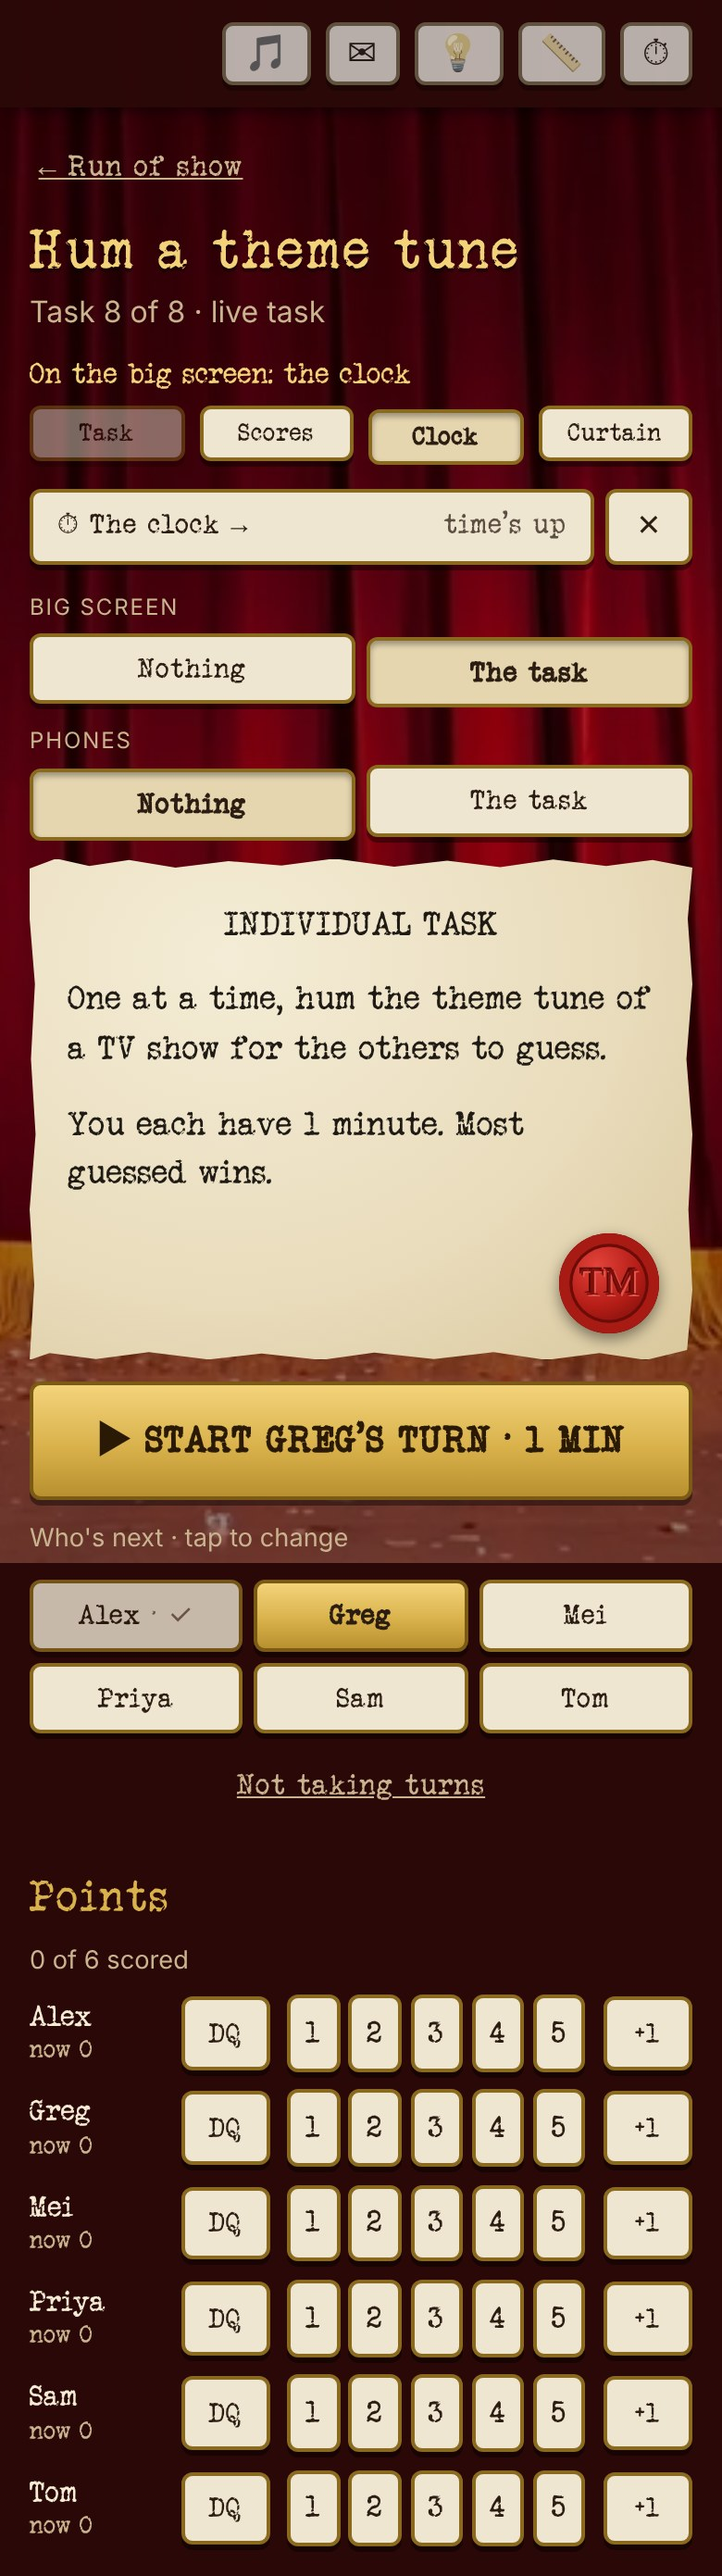
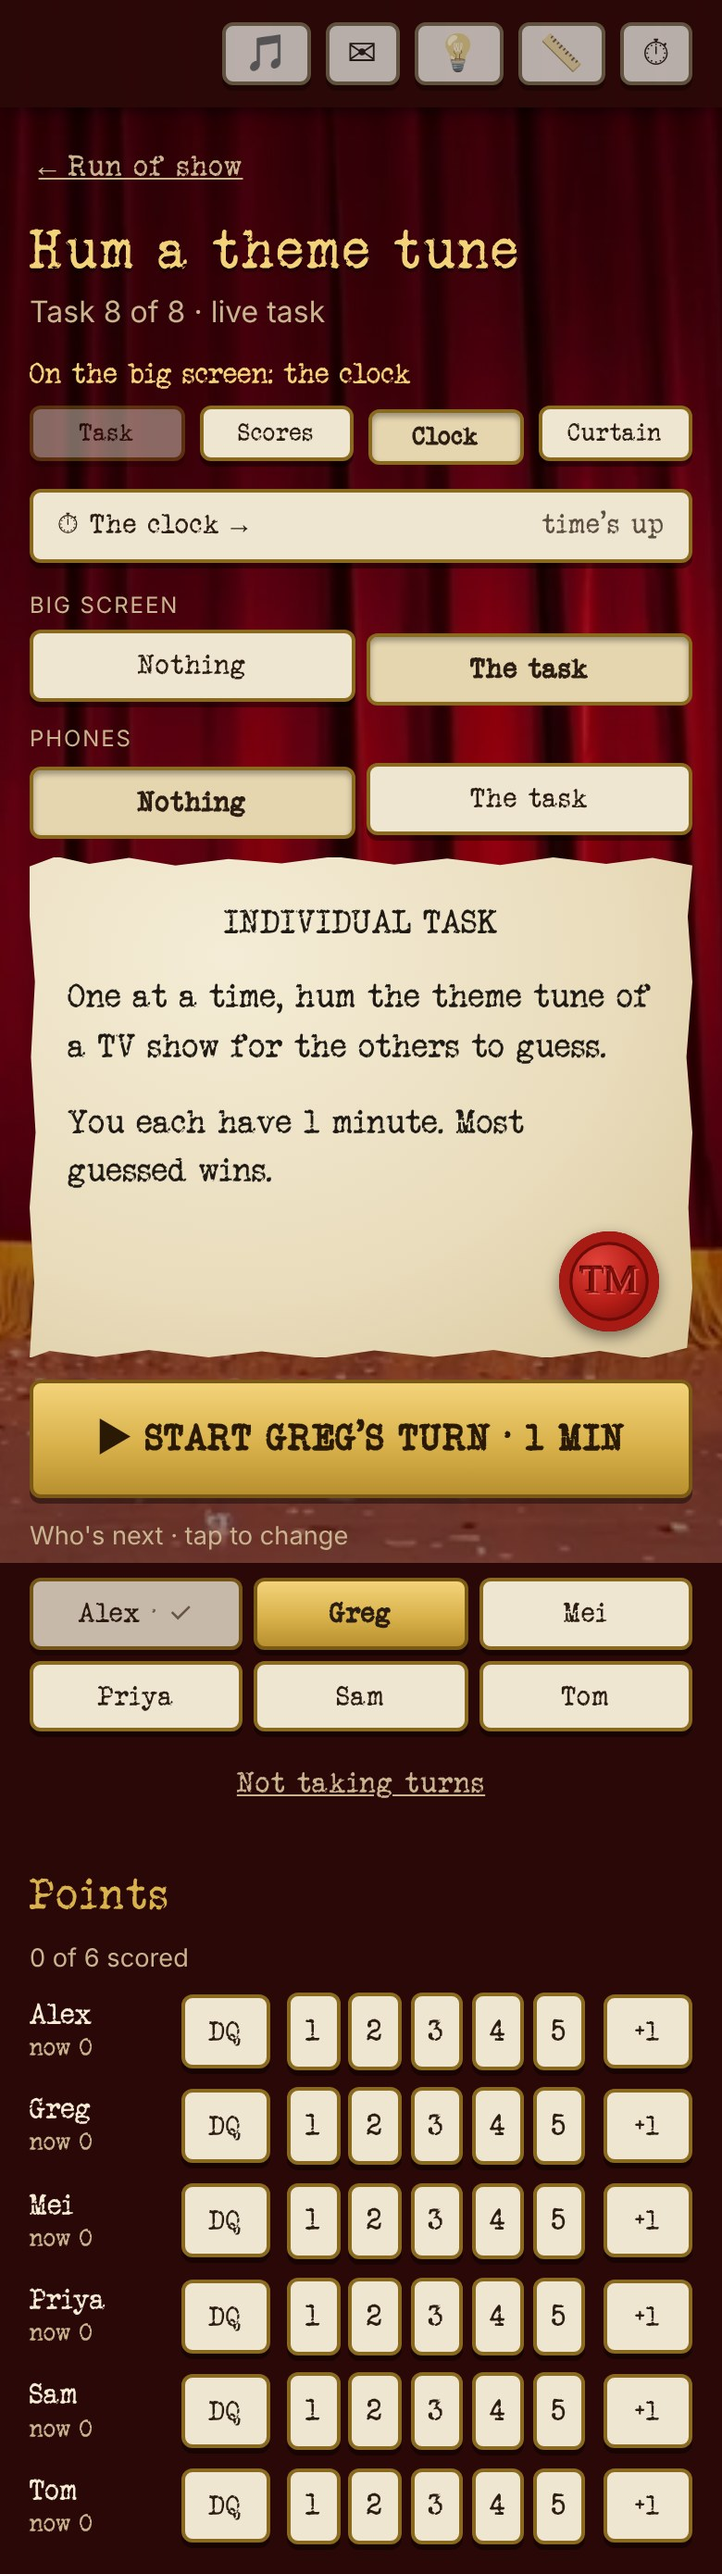
Drop the clock strip's ✕: the Curtain chip takes the clock down
Claude-Session: https://claude.ai/code/session_01Fbv7ZkFjpkrQoHj4qUM3vR

diff --git a/src/clock/ClockStrip.tsx b/src/clock/ClockStrip.tsx
@@ -1,7 +1,7 @@
 import { createContext, useContext } from "react";
 import { useServerOffset } from "../games/noisemaster/data";
 import type { Session } from "../types";
-import { clockText, showClock, startClock, stopClock, useClock, watchLabel } from "./data";
+import { clockText, startClock, stopClock, useClock, watchLabel } from "./data";
 
 /** How a page opens ⏱ (the host's phone provides it): the strip below opens it from anywhere. */
 export const OpenClock = createContext<() => void>(() => {});
@@ -9,8 +9,7 @@ export const OpenClock = createContext<() => void>(() => {});
 /**
  * The clock's strip under "On the big screen", on every page while it's set going, shown or Flipchart's: the same shape and
  * place as the song strip. Tapping the strip opens ⏱ (it never changes what the room sees); the ⏸ beside it, a separate
- * button, holds the clock and ▶ carries on. At 0:00, while it's on the big screen, that button is ✕: it takes the clock down, so
- * whatever was up before it comes back.
+ * button, holds the clock and ▶ carries on.
  */
 export function ClockStrip({ code, session }: { code: string; session: Session }) {
   const view = useClock(session);
@@ -26,7 +25,6 @@ export function ClockStrip({ code, session }: { code: string; session: Session }
     : view.up ? face : `${face} left`;
   const hold = view.phase === "running" && !view.owner;
   const carryOn = view.phase === "held" && !state?.stopped && !view.owner;
-  const takeDown = view.phase === "done" && view.shown && !view.owner;
   return (
     <div className="clock-strip">
       <button className="sb-song" onClick={open}>
@@ -35,7 +33,6 @@ export function ClockStrip({ code, session }: { code: string; session: Session }
       </button>
       {hold && <button className="clock-hold" aria-label="Stop the clock" onClick={() => void stopClock(code, view, offset)}>⏸</button>}
       {carryOn && <button className="clock-hold" aria-label="Start the clock" onClick={() => void startClock(code, view, offset)}>▶</button>}
-      {takeDown && <button className="clock-hold" aria-label="Take the clock down" onClick={() => void showClock(code, state, false)}>✕</button>}
     </div>
   );
 }

diff --git a/docs/style-sheet/sheet.tsx b/docs/style-sheet/sheet.tsx
@@ -208,8 +208,7 @@ function Sheet() {
             </div>
             <Cap>The now-playing strip (<code>.now-playing-strip</code>): under "On the big screen" on every page while a song plays; one tap pauses</Cap>
             <div className="clock-strip"><button className="sb-song"><span className="title">⏱ The clock →</span><span className="dur">2:31 left</span></button><button className="clock-hold" aria-label="Stop the clock">⏸</button></div>
-            <div className="clock-strip" style={{ marginTop: 8 }}><button className="sb-song"><span className="title">⏱ The clock →</span><span className="dur">time's up</span></button><button className="clock-hold" aria-label="Take the clock down">✕</button></div>
-            <Cap>The clock strip (<code>.clock-strip</code>): the same place and shape, on every page while the clock is set going, shown or Flipchart's. The strip opens ⏱ and never touches the room; the ⏸ beside it holds the clock (▶ carries on), and at 0:00, with the clock on the big screen, ✕ takes it down</Cap>
+            <Cap>The clock strip (<code>.clock-strip</code>): the same place and shape, on every page while the clock is set going, shown or Flipchart's. The strip opens ⏱ and never touches the room; the ⏸ beside it holds the clock (▶ carries on); at 0:00 the Curtain chip takes it down</Cap>
             <div className="mini-phone" style={{ width: "100%", marginTop: 12, display: "grid", gap: 6 }}>
               <button className="big">▶ Start the clock · 5 min</button>
               <p className="muted small" style={{ margin: 0 }}>Puts it on the big screen. <button className="link">One player at a time?</button></p>

diff --git a/docs/style-guide.md b/docs/style-guide.md
@@ -211,7 +211,7 @@ See: [guest-home-waiting.jpg](screens/guest-home-waiting.jpg), [guest-home-prize
 - **Now-playing strip** (`.sb-song.now-playing-strip`, in `OnScreen`): while a song plays, under the "On the big screen" line of every page: "⏸ Title" and "1:55 left", pressed in. One tap pauses it. It never goes gold.
 - **Replay strip** (`ReplayStrip.tsx`, `.sb-song`): on a task's page, above its song strip, always there once the task has a transition, played or not: "♪ Task fanfare · 0:08 · 🖼 Dice tower ▶". One tap plays it again on the big screen; pressed in ("⏹ …") while it's on, and tapping then ends it. Disabled, the reason in words, while the music folder isn't open or none of its files are in the folder. See: [host-replay.jpg](screens/host-replay.jpg).
 - **Transition strip** (in `OnScreen`, the now-playing strip's shape): while a task's transition is on, "⏹ Task fanfare" and "0:06 left" ("⏹ Dice tower picture" with no time for a picture on its own). One tap ends it, never pauses it. The status line above it names it: "Dice tower's transition picture". A **video holds its last frame** on the big screen when it ends, until the host puts anything else up or taps the strip, and the strip says "⏹ Spooky intro" and "last frame" in place of the time. The task's song strip is playable then (music is only sound, so it leaves the frame up), and the replay strip is back to ▶, which plays the video again from the start over the frame. "Try it" in ✎ holds the same way. Music alone ends when it ends. See: [host-sting.jpg](screens/host-sting.jpg), [host-sting-held.jpg](screens/host-sting-held.jpg).
-- **Clock strip** (`.clock-strip`, in `OnScreen`): while the ⏱ clock is set going, shown on the big screen or Flipchart's, under the "On the big screen" line of every page (not on ⏱ itself, nor Flipchart's own task page, which has its clock): the song strip's shape, "⏱ The clock →" and "2:31 left" ("held · 1:12 left", "ready · 3:00", "time's up", a stopwatch's "0:17.3"). The strip opens ⏱ and never changes what the room sees, so a stray tap is harmless. A separate ⏸ beside it holds the clock (▶ carries on), and at 0:00, while the clock is on the big screen, it's ✕: take the clock down, so whatever was up before comes back. See: [clock-host-turns.jpg](screens/clock-host-turns.jpg).
+- **Clock strip** (`.clock-strip`, in `OnScreen`): while the ⏱ clock is set going, shown on the big screen or Flipchart's, under the "On the big screen" line of every page (not on ⏱ itself, nor Flipchart's own task page, which has its clock): the song strip's shape, "⏱ The clock →" and "2:31 left" ("held · 1:12 left", "ready · 3:00", "time's up", a stopwatch's "0:17.3"). The strip opens ⏱ and never changes what the room sees, so a stray tap is harmless. A separate ⏸ beside it holds the clock (▶ carries on). At 0:00 there's nothing beside it: the Curtain chip above takes the clock down.
 - **⏱ The clock** (`ClockRemote.tsx`): top to bottom (it has no show button of its own: the Clock stage chip above it puts the clock up, before or after starting it, over whatever was up, and Curtain takes it down), "Count down · Stopwatch" (`.choices.two.marks`, locked once it has started), then for a countdown "From task 6, Dice tower" with the task's time limits, a part each: the one the host set on the part in ✎ ("4 min · part 1"), else the one read from its words, with the sentence it came from ("2 min · part 2, “You have 2 minutes.”"; the part on the big screen is picked to start with), "Or any time" (1, 2, 5 and 10 min) and "Your own" in min and sec boxes (`.feet-in`, no colon on a phone's number pad), a "♪ Ends on: …" summary line (or "+ Song to end on") that starts a song on the main screen when the time left is its length (a longer song starts with the clock and plays on past 0:00), the clock, and **one button in one place**: gold "▶ Start" (and to carry on), pressed-in paper "⏸ Stop" while it runs (the song pauses with it). Quiet links under it: "+1 minute" (the song plays on) and "Reset". The time chips lock, dimmed, once it has started. At 0:00 a countdown is as good as new: the chips (and "Count down · Stopwatch") unlock, picking a time sets a fresh clock, coming from another task picks up its time, and the one button is gold "▶ Start again · 3 min" with a muted "Time's up. Pick a time, or start the same again." Reset is never needed to start another. See: [clock-host-done.jpg](screens/clock-host-done.jpg). A stopwatch swaps the times for contestant chips: the first tap with everyone going picks just that one, then each tap adds or takes away ("Everyone" picks them all again); while it runs a tap takes that contestant's time (it stays on their chip), a tap on a timed chip takes it back, and the clock stops itself when everyone going has one. Times go into a lowest-wins live task's results, in seconds; with no such task they stay on the page. On the big screen, a turn started from a task page puts the stage's paper label under the clock: "GREG's turn" (`.stage-label`, as under a headshot). The clock is never on guest phones. Flipchart's clock, while it runs, is the clock in the party: ⏱ shows it, read-only. See: [clock-host-set.jpg](screens/clock-host-set.jpg), [clock-host-song.jpg](screens/clock-host-song.jpg), [clock-host-running.jpg](screens/clock-host-running.jpg), [clock-host-task.jpg](screens/clock-host-task.jpg), [clock-host-stopwatch.jpg](screens/clock-host-stopwatch.jpg), [clock-host-flipchart.jpg](screens/clock-host-flipchart.jpg), [clock-main-countdown.jpg](screens/clock-main-countdown.jpg), [clock-main-stopwatch.jpg](screens/clock-main-stopwatch.jpg).
 - **📏 Useless conversions** (`Converter.tsx`, wrapped for the party by `ConverterRemote.tsx`): top to bottom, a task's units (if any), the kinds, that kind's units, then "How much?" and gold "Surprise me", so the box follows the unit picked. At an imperial party a kind's US units come first (in ft mm cm m), each kind opens on ft, lb or cups, and ft or lb gets two boxes, ft and in or lb and oz (`.feet-in`), because a phone's number pad has no ' or ". The phone's remembered unit only counts if it's from the party's system. See: [converter-host-imperial-first.jpg](screens/converter-host-imperial-first.jpg).
   - **Start from a thing**: after the units, a full-width "a thing ▾" chip (`.choices.units .thing`) opens a find box and that kind's useless units, each with its size on the right ("Eiffel Tower · 330 m"). Picking one shows its name on the chip, and "How much?" becomes a count (1 to start). The card names it and leaves its size out, since the number spoils the joke: "The Eiffel Tower is", "2 Eiffel Towers are". The answer can be picked too, with the same find box and list: "Or pick one ▾" under "Surprise me" before the first result, "Use a different unit ▾" on the card after it (`FindThing`). A thing is never converted into itself. Beside "Use a different unit", a quiet "⇄ Flip it" (only when started from a thing; `.summary-links`) swaps the two: the answer becomes the thing, at 1, and the old start the answer ("Jimothy is about 1/2,165 the height of the Eiffel Tower"). If either side is an average, so is the result: never "exactly". See: [converter-host-flipped.jpg](screens/converter-host-flipped.jpg), [converter-host-find-thing.jpg](screens/converter-host-find-thing.jpg), [converter-host-thing.jpg](screens/converter-host-thing.jpg), [converter-main-jimothy.jpg](screens/converter-main-jimothy.jpg).

diff --git a/docs/screens/README.md b/docs/screens/README.md
@@ -46,7 +46,7 @@ Guest phone (`/play`, 390px wide), redrawn on 2026-10-18 in the host remote's la
 | `stage-chips-host-transition-curtain.jpg` | Curtain tapped while Dice tower's "Spooky intro" held its last frame: the transition is ended and "On the big screen: the curtain", Curtain pressed in (party ABCD, 2026-10-25) |
 | `stage-chips-host-flipchart-curtain.jpg` | Curtain tapped mid-Flipchart: "On the big screen: the curtain, while they draw", Curtain pressed in, Clock to bring Flipchart's clock back (party ABCD, 2026-10-25) |
 | `clock-host-task.jpg` | The task page while the clock counts: the clock strip under "On the big screen", and the ⏸ beside it (2026-10-21) |
-| `clock-host-turns.jpg` | Started from the task page, one player at a time: Hum a theme tune, "1 minute" each; Alex's turn over ("time's up" and ✕ to take the clock down beside the strip), gold "▶ Start Greg's turn · 1 min", "Who's next · tap to change" with Alex dimmed and ✓, Greg gold, and "Not taking turns" (2026-10-25) |
+| `clock-host-turns.jpg` | Started from the task page, one player at a time: Hum a theme tune, "1 minute" each; Alex's turn over ("time's up" on the clock strip, Clock pressed in on the stage chips), gold "▶ Start Greg's turn · 1 min", "Who's next · tap to change" with Alex dimmed and ✓, Greg gold, and "Not taking turns" (2026-10-25) |
 | `clock-main-turn.jpg` | The big screen during Greg's turn: the clock, with the stage's paper label "GREG's turn" under it (2026-10-25) |
 | `clock-host-untimed.jpg` | Five socks, whose words give no time: only a quiet "⏱ Time this task" under the card, into ⏱ (2026-10-25) |
 | `clock-host-done.jpg` | ⏱ at 0:00: the times unlocked (3 min still picked), gold "▶ Start again · 3 min" and "Time's up. Pick a time, or start the same again." (2026-10-25) |
